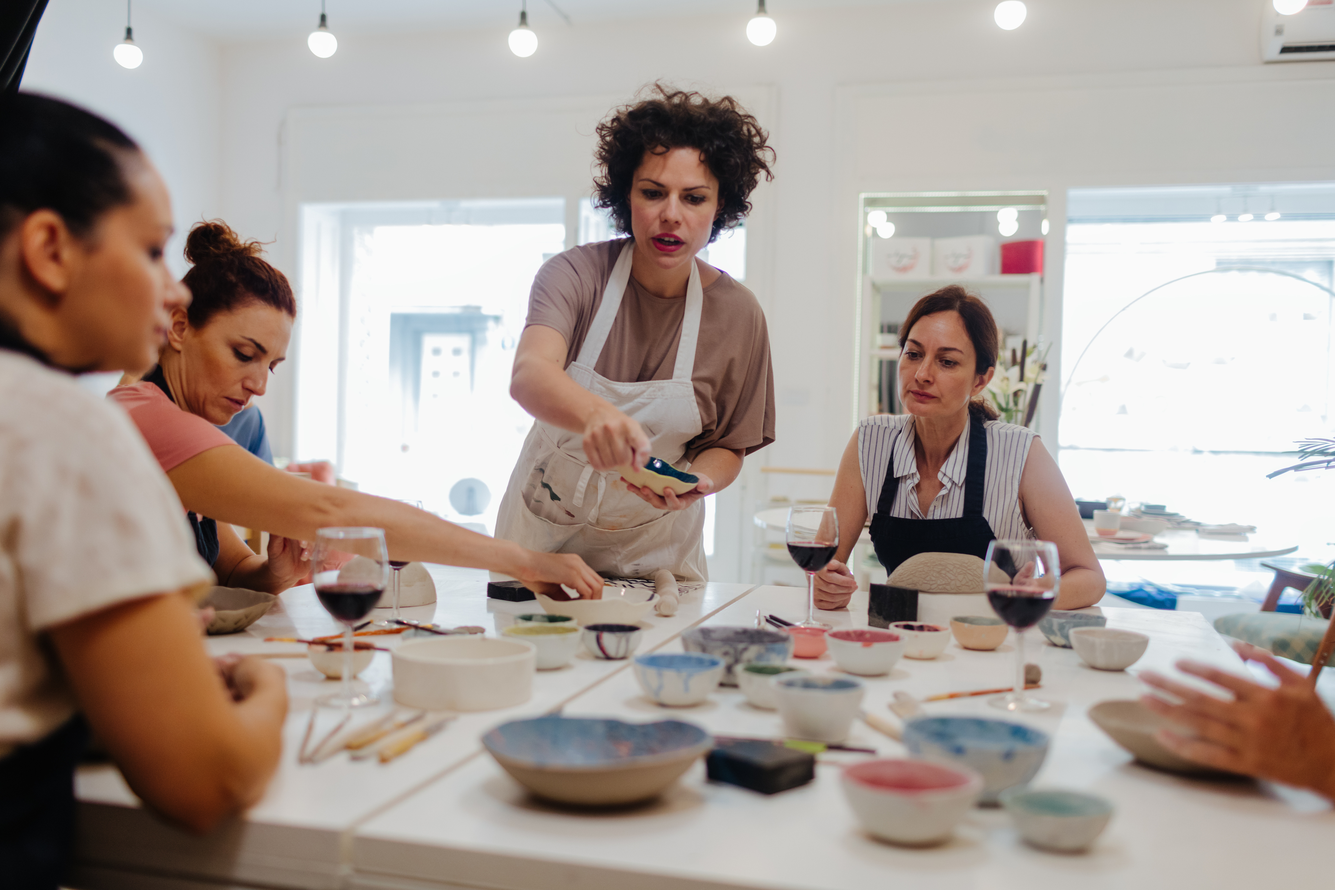
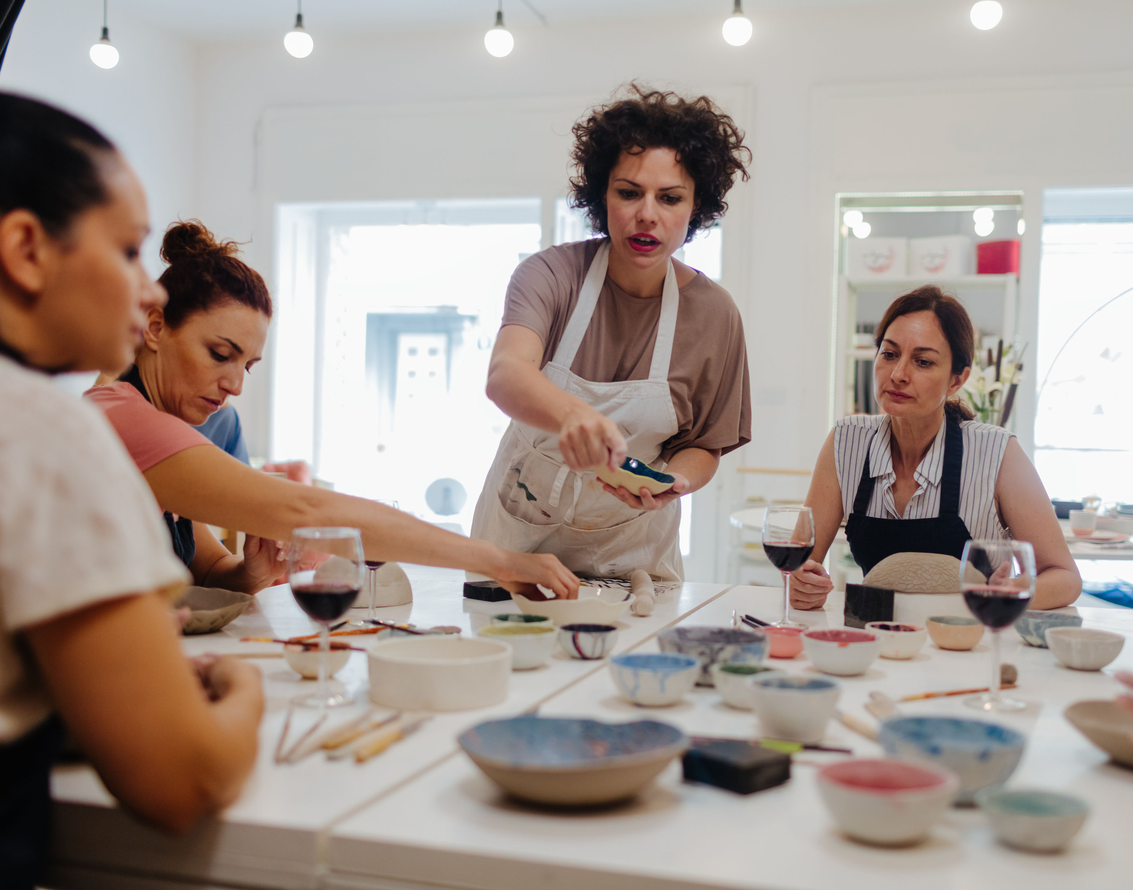
version with differetn AR images

diff --git a/2021/aspect-ratio/index.html b/2021/aspect-ratio/index.html
@@ -2,79 +2,94 @@
 <html lang="en-US">
 	<head>
 		<meta charset="UTF-8">
+		<meta name='viewport' content='initial-scale=1, width=device-width'>
+
 		<title>Pottery Classes</title>
 
 		<style>
 			*, *:before, *:after { box-sizing: border-box; }
 			img { display: block; }
-			html { 
+			html {
 				font-family: Avenir, sans-serif;
 			}
 			body {
+				background-color: #fbf2e0;
 
 			 }
-			main { 
-				
+			main {
+
 			}
 			img {
-				width: 200px;
-				margin-top:1rem;
-			} 
-			p {
-
+				width: 100%;
 			}
 			ul {
 				margin: 0;
 				padding: 0;
+				display: grid;
+				grid-template-columns: repeat(auto-fit, minmax(200px, 1fr));
+				gap: 1rem;
 			}
 			li {
 				display: block;
+				background-color: #DBCEB3;
+				border-radius: 5px;
+				padding: 1rem;
+			}
+			h1 {
+				font-weight: 325;
 			}
 			h3 {
-				font-weight: normal;
-				margin: 0.5rem 0 0;
+				font-weight: 625;
+				margin: 0.75rem 0 0.25rem;
+				line-height: 1.1;
 			}
-			h5 {
-				font-weight: normal;
-				margin: 0;				
+			p {
+				font-weight: 350;
+				font-size: 0.75rem;
+				margin: 0;
 			}
 		</style>
-	</head>	
-	
+	</head>
+
 	<body>
 		<main>
-			
-						<h1>Upcoming events</h1>
+					<h1>Upcoming events</h1>
 					<ul>
 						<li>
-							<img src="istockphoto-1148982408-612x612.jpg" />
+							<img src="iStock-1148982408.jpg" />
 							<h3>Pottery classes for Kids</h3>
+							<p>Lorem ipsum dolor sit amet, consectetur adipiscing elit.</p>
 						</li>
 						<li>
-							<img src="istockphoto-522319032-612x612.jpg" />
+							<img src="iStock-522319032.jpg" />
 							<h3>Wheel Throwing</h3>
+							<p>Vivamus consectetur consequat ex, ac pretium dolor interdum id. Proin sit amet convallis nulla. Duis a gravida mauris. Curabitur consequat consequat leo, et mattis diam vulputate et. </p>
 						</li>
 						<li>
-							<img src="istockphoto-951654086-612x612.jpg" />
+							<img src="iStock-951654086.jpg" />
 							<h3>Handbuilding</h3>
+							<p>Praesent vestibulum purus est, a sagittis felis vehicula eu. Pellentesque habitant morbi tristique senectus et netus et malesuada fames ac turpis egestas. Praesent nec suscipit leo, non tincidunt risus. Fusce scelerisque elit ut lobortis iaculis. Pellentesque efficitur lorem feugiat lorem pretium cursus.</p>
 						</li>
 						<li>
-							<img src="istockphoto-1074944558-612x612.jpg" />
+							<img src="iStock-1074944558.jpg" />
 							<h3>Painting</h3>
+							<p>Pellentesque sollicitudin nunc nec tellus vestibulum, at porta dui vestibulum. </p>
 						</li>
 						<li>
-							<img src="istockphoto-1255551425-612x612.jpg" />
+							<img src="iStock-1255551425.jpg" />
 							<h3>Glazing</h3>
+							<p>Aenean ligula erat.</p>
 						</li>
 						<li>
-							<img src="istockphoto-490175956-612x612.jpg" />
+							<img src="iStock-490175956.jpg" />
 							<h3>Firing Techniques</h3>
+							<p>Sed dui diam, aliquet non velit vitae, imperdiet posuere massa. Pellentesque facilisis consectetur dolor at lobortis. In hac habitasse platea dictumst. Mauris cursus libero a iaculis feugiat. Quisque viverra mauris vel lectus rutrum, nec pretium diam malesuada. </p>
 						</li>
 						<li>
-							<img src="istockphoto-1293895976-612x612.jpg" />
+							<img src="iStock-1293895976.jpg" />
 							<h3>Advanced Classes</h3>
+							<p>Quisque porttitor consectetur magna eget semper. Fusce vestibulum, ex ac pellentesque luctus, tellus arcu eleifend est, vel sagittis ante nisl ac libero.</p>
 						</li>
-						
 					</ul>
 		</main>
 	</body>
